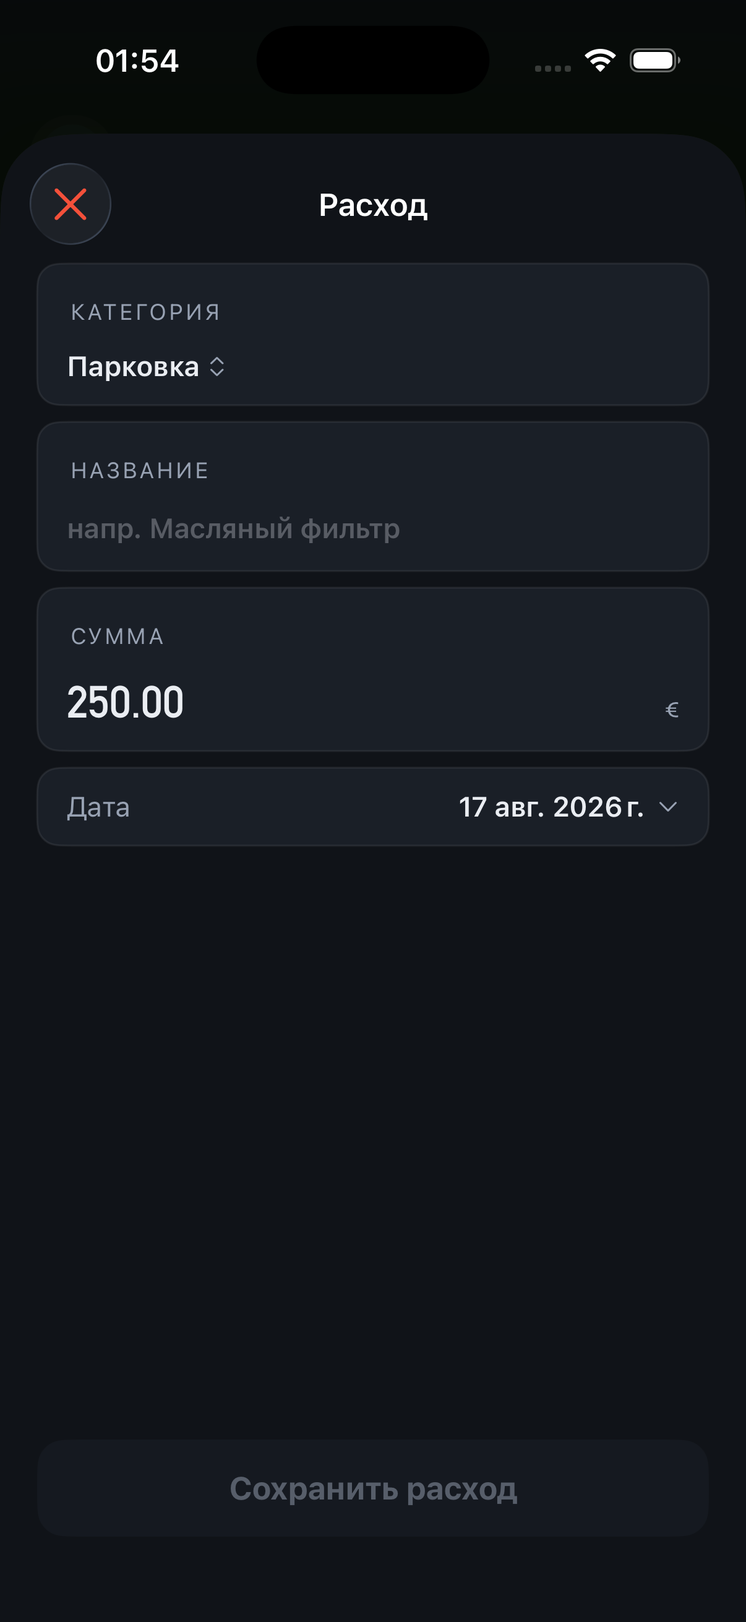
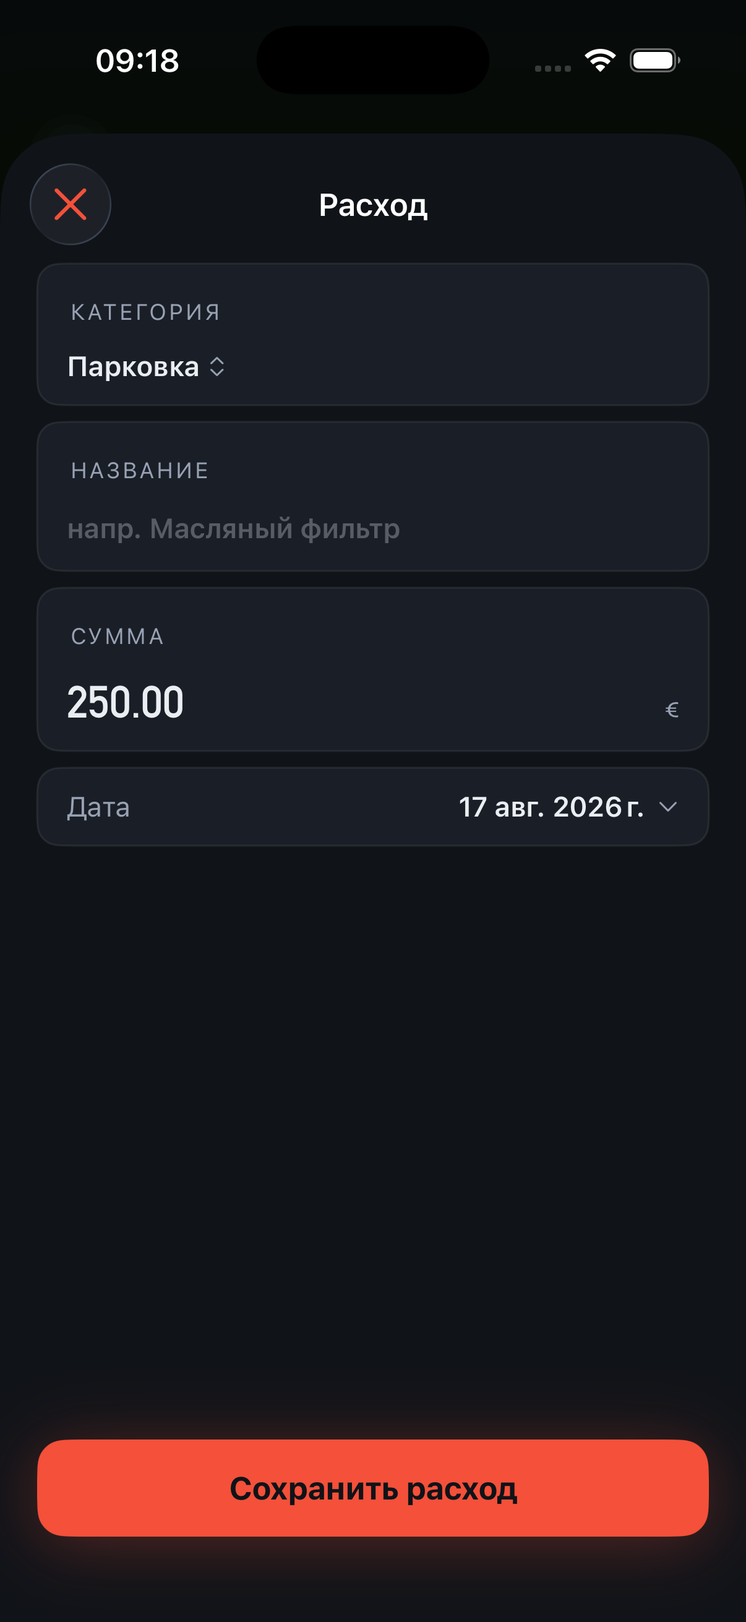
RV.206: a scan that read the category and the amount can be saved
canSave drops its hasTitle term. A category and an amount are enough,
because the Log row already names the expense from its category.

The gate was right when it was written and stale when it was found. The
archaeology gives one commit - 53d2623, P3.2, 2026-08-25 - at which
point Shared/EntryTitle.swift did not exist and nothing could name an
expense from its category. RV.187 added the fallback chain and RV.195
made the category visible and editable; the gate outlived its reason by
seventeen days and turned a complete scan into a demand to type
something redundant.

.other("") was settled rather than assumed: it renders the localized
"Other", a real category the user can edit afterwards, so "Other ·
12.40 €" is a named row. Asserted per category, not once. The amount
requirement stays - an expense with no amount is still refused.

The service gate is not the same code and not the same defect: it has no
amount requirement, so hasTitledItem is the only thing standing between
a blank ServiceRecord and the database. Filed as RV.214 rather than
changed, which is the right call - the fence moves by decision, not by
momentum.

Verified here, not from the report. Restoring hasTitle && fails two of
the five new tests and the restored gate returns 5/5; swift build 0,
swiftlint 0, swift test 0 at 1976 tests, ExpenseCaptureUITests 6/6.
Both locales opened: the RU form shows Парковка · 250.00 € with an empty
title and an enabled Сохранить расход - the defect and its fix in one
frame.
[…]

Changed region(s): [[0.0307, 0.865, 0.9511, 0.9577], [0.1534, 0.0309, 0.2454, 0.0618]]

diff --git a/ios/App/Tests/RV206ExpenseSaveGateTests.swift b/ios/App/Tests/RV206ExpenseSaveGateTests.swift
@@ -1,0 +1,147 @@
+import TankbookCore
+import XCTest
+@testable import Tankbook
+
+/// RV.206 - an expense with a category and an amount is saveable without a
+/// title. The gate predates the fallback chain: when it was written a title was
+/// the only thing naming an expense, so demanding one was right then. RV.187
+/// gave the Log row a category fallback and RV.195 made the category visible
+/// and editable, so the title became redundant typing - a complete scan landed
+/// on a disabled Save with no way forward but the keyboard.
+///
+/// The amount requirement is kept: an untitled row is named by its category
+/// (never a blank "- 12.40 €"), but an amount-less row is still refused. The
+/// `.other("")` decision is asserted directly - it renders the localized
+/// "Other", a real category label the user can edit afterwards (RV.195), so it
+/// names the row like every other category.
+///
+/// The persisted shape is driven through `ExpenseEntryView.storedExpense`, the
+/// same factory `save()` calls, so the round-trip proves what the real save
+/// writes rather than a copy of it.
+@MainActor
+final class RV206ExpenseSaveGateTests: XCTestCase {
+
+    override func setUpWithError() throws {
+        continueAfterFailure = false
+    }
+
+    private func makeVehicle() throws -> (TankbookRepository, Vehicle) {
+        let repository = try TankbookRepository(database: TankbookDatabase.inMemory())
+        let now = Date()
+        let vehicle = Vehicle(
+            id: UUID.v7(), createdAt: now, updatedAt: now, deletedAt: nil,
+            name: "Volvo V60", make: "Volvo", model: "V60", year: 2015,
+            plate: nil, powertrain: .ice, fuelKinds: [.petrol95],
+            tankCapacityL: 71, batteryCapacityKWh: nil, homeCurrency: .eur,
+            units: Vehicle.Units(distance: .km, volume: .l, consumption: .lPer100,
+                                 energy: .kWhPer100),
+            photo: nil, archived: false, paceLimitKmPerDay: 1500,
+            initialOdometer: 118_930)
+        try repository.upsertVehicle(vehicle)
+        return (repository, vehicle)
+    }
+
+    /// The premise of every test below: the form carries an amount and a
+    /// category but no title. The gate must let it through.
+    private func untitledForm(category: ExpenseCategory,
+                              amount: String) -> ExpenseEntryFormState {
+        var form = ExpenseEntryFormState()
+        form.category = category
+        form.amount = amount
+        return form
+    }
+
+    private func logRowTitle(_ entry: Expense, vehicle: Vehicle) -> String? {
+        let stream = LogStream(vehicle: vehicle, entries: [entry])
+        let logEntry = stream.sections
+            .flatMap(\.rows)
+            .compactMap { row -> LogStream.LogEntry? in
+                if case .entry(let value) = row { return value }
+                return nil
+            }
+            .first
+        return logEntry.map { EntryTitle.text($0, stations: []) }
+    }
+
+    // MARK: - The gate
+
+    /// L1, fails before this row: a category and an amount with no title is
+    /// saveable. Oracle: RV.187's chain - the Log row names it from the
+    /// category, so the title is redundant input.
+    func testAnExpenseWithACategoryAndAnAmountAndNoTitleIsSaveable() {
+        let form = untitledForm(category: .parts, amount: "12.40")
+        XCTAssertFalse(form.hasTitle, "the test's premise: no title was typed")
+        XCTAssertTrue(form.canSave,
+                      "a category names the row (RV.187), so a title is not required")
+    }
+
+    /// The gate still requires the amount. A title alone does not save, and
+    /// neither does an empty form - deleting the gate outright is the vacuous
+    /// trap this pins against.
+    func testAnExpenseWithNoAmountIsStillRefused() {
+        XCTAssertFalse(untitledForm(category: .parts, amount: "").canSave,
+                       "an amount-less expense must not save as a blank row")
+        var titled = untitledForm(category: .parts, amount: "")
+        titled.title = "Oil filter"
+        XCTAssertFalse(titled.canSave,
+                       "a title does not stand in for the amount the row needs")
+    }
+
+    /// `.other("")` is a real category, not an absence: it renders the
+    /// localized "Other" (RV.187, `expenseCategoryLabel`), so it names the row
+    /// exactly as every fixed category does. Every offered category is
+    /// asserted, so a later addition that cannot name a row fails here.
+    func testEveryOfferedCategoryNamesTheRowWithoutATitle() {
+        for category in ExpenseCategory.entryCases {
+            let form = untitledForm(category: category, amount: "12.40")
+            XCTAssertTrue(form.canSave,
+                          "\(category) must name the row without a title")
+            XCTAssertFalse(L10n.expenseCategoryLabel(category).isEmpty,
+                           "\(category) must render a non-empty label")
+        }
+    }
+
+    // MARK: - The save round-trips and the Log row reads the category
+
+    /// L1: it actually SAVES and the stored row round-trips. Oracle: the
+    /// reloaded `Expense` - empty title, the category, the amount - and the Log
+    /// row it produces reads the category (RV.187), so the user can find what
+    /// they saved. Never merely "the button is enabled".
+    func testTheUntitledExpenseSavesAndItsLogRowReadsTheCategory() throws {
+        let (repository, vehicle) = try makeVehicle()
+        let form = untitledForm(category: .parts, amount: "12.40")
+        let amount = try XCTUnwrap(form.amountDecimal)
+
+        let expense = ExpenseEntryView.storedExpense(
+            form: form, vehicle: vehicle, amount: amount,
+            attachments: [], provenance: .manual)
+        try repository.upsertExpense(expense)
+
+        let saved = try XCTUnwrap(repository.liveExpenses(forVehicle: vehicle.id).first)
+        XCTAssertEqual(saved.title, "", "the title is written as typed: blank")
+        XCTAssertEqual(saved.category, .parts)
+        XCTAssertEqual(saved.money?.amount, Decimal(string: "12.40"))
+        XCTAssertEqual(logRowTitle(saved, vehicle: vehicle), "Parts",
+                       "the Log row must name the untitled expense from its category")
+    }
+
+    /// L1, the `.other("")` decision asserted directly: an untitled expense in
+    /// the bare other category saves and its Log row reads "Other" - a real
+    /// label, not the bare type name and not a blank row.
+    func testABareOtherCategoryNamesTheSavedRowAsOther() throws {
+        let (repository, vehicle) = try makeVehicle()
+        let form = untitledForm(category: .other(""), amount: "12.40")
+        let amount = try XCTUnwrap(form.amountDecimal)
+
+        let expense = ExpenseEntryView.storedExpense(
+            form: form, vehicle: vehicle, amount: amount,
+            attachments: [], provenance: .manual)
+        try repository.upsertExpense(expense)
+
+        let saved = try XCTUnwrap(repository.liveExpenses(forVehicle: vehicle.id).first)
+        XCTAssertEqual(saved.title, "")
+        XCTAssertEqual(saved.category, .other(""))
+        XCTAssertEqual(logRowTitle(saved, vehicle: vehicle), "Other",
+                       "the bare .other(\"\") still names the row 'Other'")
+    }
+}

diff --git a/ios/App/Sources/ServiceEntry/ExpenseEntryView.swift b/ios/App/Sources/ServiceEntry/ExpenseEntryView.swift
@@ -39,8 +39,12 @@ struct ExpenseEntryFormState: Equatable {
         !title.trimmingCharacters(in: .whitespaces).isEmpty
     }
 
-    /// Save gate: a title and a non-blank amount. Category always has a value.
-    var canSave: Bool { hasTitle && amountDecimal != nil }
+    /// Save gate: a non-blank amount. The category always has a value, and the
+    /// Log row names the expense from it when the title is empty (RV.187), so a
+    /// title is never required to save. Even the bare `.other("")` renders the
+    /// localized "Other" - a real category label the user can edit afterwards
+    /// (RV.195), never an unnamed row.
+    var canSave: Bool { amountDecimal != nil }
 
     func hasEdits() -> Bool {
         if category != initialCategory { return true }
@@ -185,6 +189,25 @@ struct ExpenseEntryView: View {
         vehicle != nil && form.canSave
     }
 
+    /// The stored row `save()` writes, as a value. Extracted so the save gate
+    /// and the persisted shape are reachable from L1 without driving the view's
+    /// private `save()` (the RV.202 seam). The title is written exactly as
+    /// typed - empty when the user left it blank, because the category names
+    /// the row (RV.187) and the gate no longer demands one (RV.206).
+    static func storedExpense(form: ExpenseEntryFormState, vehicle: Vehicle,
+                              amount: Decimal, attachments: [AttachmentID],
+                              provenance: Provenance, id: UUID = UUID.v7(),
+                              now: Date = Date()) -> Expense {
+        Expense(
+            id: id, createdAt: now, updatedAt: now, deletedAt: nil,
+            vehicleId: vehicle.id, date: form.date, odometer: nil,
+            money: Money(amount: amount, currency: vehicle.homeCurrency,
+                         homeCurrency: vehicle.homeCurrency),
+            note: nil, attachments: attachments, provenance: provenance,
+            conflict: .none, purchaseGroupId: nil, category: form.category,
+            title: form.title, recurrence: nil, installedInServiceId: nil)
+    }
+
     private func save() {
         guard let vehicle, saveEnabled, let amount = form.amountDecimal else { return }
         do {
@@ -211,16 +234,10 @@ struct ExpenseEntryView: View {
             // A scan is never a `.manual` arrival once the photo path exists
             // (docs/SCHEMA.md: provenance is never `.manual` when a pre-fill
             // was applied); the typed door stays `.manual`.
-            var expense = Expense(
-                id: UUID.v7(), createdAt: now, updatedAt: now, deletedAt: nil,
-                vehicleId: vehicle.id, date: form.date, odometer: nil,
-                money: Money(amount: amount, currency: vehicle.homeCurrency,
-                             homeCurrency: vehicle.homeCurrency),
-                note: nil, attachments: attachmentIDs,
-                provenance: scan != nil ? .receiptScan : .manual,
-                conflict: .none,
-                purchaseGroupId: nil, category: form.category, title: form.title,
-                recurrence: nil, installedInServiceId: nil)
+            var expense = Self.storedExpense(
+                form: form, vehicle: vehicle, amount: amount,
+                attachments: attachmentIDs,
+                provenance: scan != nil ? .receiptScan : .manual, now: now)
             // PJ.11: F9a is checked on every write, not just capture. This
             // screen never collects an odometer, so the verdict is trivially
             // `.none` - but the stamp is the uniform shape of every write path

diff --git a/ios/App/UITests/ExpenseCaptureUITests.swift b/ios/App/UITests/ExpenseCaptureUITests.swift
@@ -35,7 +35,12 @@ final class ExpenseCaptureUITests: XCTestCase {
         XCTAssertTrue(FileManager.default.fileExists(atPath: fixture),
                       "the corpus fixture is missing: \(fixture)")
         let app = XCUIApplication()
+        // `-seedSettingsSignedIn` makes the Home the full layout that renders
+        // the Log. Without a session the Home is the guest layout, which has no
+        // Log at all - these tests assert a saved row, so they must run signed
+        // in rather than relying on a Keychain session another run left behind.
         app.launchArguments = ["-homeResetDatabase", "-seedHomeEmptyVehicle",
+                               "-seedSettingsSignedIn",
                                "-presentScreen", "capture", "-cameraStatus", "authorized",
                                "-captureMode", "expense", "-captureFixtureImage", fixture,
                                seed]
@@ -176,8 +181,8 @@ final class ExpenseCaptureUITests: XCTestCase {
         let app = captureExpense("-seedExpenseScan")
         shootAndUse(app)
 
-        // A scanned expense still needs its title - typing is never replaced,
-        // only reduced (hard rule 15, PJ.50's seam).
+        // A title is one peer path, not a requirement (RV.206): the scan is
+        // saved with a typed title here to prove the receipt rides the save.
         let title = app.textFields["expenseEntryTitleField"]
         XCTAssertTrue(title.waitForExistence(timeout: 15),
                       "an Expense-mode scan must land on the expense entry form")
@@ -206,5 +211,35 @@ final class ExpenseCaptureUITests: XCTestCase {
                       "tapping the receipt must open the attachment viewer")
         XCTAssertTrue(image.isHittable,
                       "the full-size photo must be visible, not merely present")
+    }
+
+    /// RV.206 - a scan that read the category and the amount must be saveable
+    /// WITHOUT typing. This drives the real capture -> save -> Log path and
+    /// asserts the entry is in the Log and its row is named from the category
+    /// (RV.187). Asserting the button is enabled alone would pass while the
+    /// save still demanded a title - the vacuous trap this row names.
+    func testAScanThatReadCategoryAndAmountSavesWithoutTypingAndAppearsInTheLog() {
+        let app = captureExpense("-seedExpenseScanParking")
+        shootAndUse(app)
+
+        let category = app.buttons["expenseEntryCategory"]
+        XCTAssertTrue(category.waitForExistence(timeout: 15),
+                      "an Expense-mode scan must land on the expense entry form")
+        XCTAssertTrue(categoryShows(app, "Parking"),
+                      "the parking scan must preselect Parking; control was '\(category.label)'")
+        XCTAssertFalse(isFieldBlank(app, "expenseEntryAmountField"),
+                       "the parking scan must pre-fill the amount it read")
+
+        // No title is typed: the category names the row, so Save is reachable.
+        let save = app.buttons["expenseEntrySaveButton"]
+        XCTAssertTrue(save.isEnabled,
+                      "a scan that read a category and an amount must be saveable")
+        save.tap()
+
+        let row = app.buttons["logEntryButton"].firstMatch
+        XCTAssertTrue(row.waitForExistence(timeout: 15),
+                      "the scanned expense must appear in the log without a title")
+        XCTAssertTrue(row.label.contains("Parking"),
+                      "the Log row must be named from the category (RV.187); was '\(row.label)'")
     }
 }

diff --git a/docs/TASKS.md b/docs/TASKS.md
@@ -59,12 +59,13 @@ dispatch ledger moved to `docs/TASKS-HISTORY.md`.*
 | PJ.22 | PRIORITY (product owner, 2026-08-31) | `[x]` | below · PJ · Journeys review (2026-08-29) |
 | RV.212 | (J7 "the invoice in your hand") The km-lifetime odometer rule is enforced on one door and not t | `[ ]` | below · PJ · Journeys review (2026-08-29) |
 | RV.213 | (J7 "the invoice in your hand") A per-item lifetime can only be stated AFTER the first save | `[ ]` | below · PJ · Journeys review (2026-08-29) |
+| RV.214 | (J7 "the invoice in your hand", J7b the shop receipt) The service create gate demands a titled | `[ ]` | below · PJ · Journeys review (2026-08-29) |
 | PJ.23 | PRIORITY (product owner, 2026-08-31) | `[x]` | below · PJ · Journeys review (2026-08-29) |
 | RV.204 | (J3 the fill-up receipt, J7 the service invoice) One screen, two contracts for the same failure | `[ ]` | below · PJ · Journeys review (2026-08-29) |
 | RV.202 | (J7 the invoice in your hand, J7b the shop receipt, J8b "look at the receipt again") A service | `[x]` | below · PJ · Journeys review (2026-08-29) |
 | RV.200 | (J7b "a shop receipt is an expense") An Expense scan never recognises WHICH KIND of expense it | `[x]` | below · PJ · Journeys review (2026-08-29) |
 | RV.205 | (J7b "a shop receipt is an expense") The receipts corpus cannot measure expense-kind recognitio | `[!]` | below · PJ · Journeys review (2026-08-29) |
-| RV.206 | (J7b the shop receipt) A scanned expense that read everything still cannot be saved | `[!]` | below · PJ · Journeys review (2026-08-29) |
+| RV.206 | (J7b the shop receipt) A scanned expense that read everything still cannot be saved | `[x]` | below · PJ · Journeys review (2026-08-29) |
 | RV.201 | (J3 "the receipt catches up with you" - and J7/J7b for service and expense) Late-arriving recog | `[!]` | below · PJ · Journeys review (2026-08-29) |
 | PJ.60 | (J7b purchase / J7d a reminder is born) Expense.recurrence is written nil and read nowhere | `[ ]` | below · PJ · Journeys review (2026-08-29) |
 | PJ.61 | (J7b the parts shelf) ServiceItem.partNumber is written nil and read nowhere | `[ ]` | below · PJ · Journeys review (2026-08-29) |
@@ -727,12 +728,13 @@ route through (Welcome, Reminders, the S5 notice, the post-sign-in push) exist o
 | **[x]** PJ.22 | **PRIORITY (product owner, 2026-08-31).** **[v1.x]** **gap** (J7 "app proposes the next reminder"; P3.4 never included it) **Lifetime editor** (km / months) on a service line item; on save create the proposal reminder anchored at the record's date/odometer, write `proposedReminderId` (always nil today, `ServiceEntryDraft.swift:122`), accept/decline line on the sheet; unlocks the km-lifetime odometer rule | L1: draft with lifetime -> one `Reminder` linked by `sourceEntryId`; decline writes none. L4 `ServiceEntryUITests`: proposal shown, accepted reminder appears in Reminders; EN+RU | **DONE 2026-09-11.** The lifetime editor ships on the service line item (km / months, either or both), and saving a record whose lifetime CHANGED raises the offer sheet. **The offer is anchored at the RECORD, never at today** - the sheet says so in words (*"Counted from this record, not from today - 123 600 km, Sep 8"*), which is what makes a back-dated or imported service correct rather than merely plausible. The interval is editable **at the offer and afterwards** and the sheet says that too (*"A suggested interval, not a fact: change it here or later"*) - hard rule 13 stated in the copy, not just in the code. Declining writes no reminder at all. **`proposedReminderId` is DROPPED**, per [PJ.62]'s decision: the Swift type, the migration column and the schema line are gone, `sourceEntryId` is the single link, and `ReminderOfferLifetimeTests.proposedReminderIdIsGoneEverywhere` now fails if the name returns anywhere in the tree. **The guard loop closes a fourth time**: [RV.196]'s `ServiceItem.lifetime.km`/`.months` exceptions are deleted and `SchemaFieldWriterGuardTests` asserts they stay deleted. **Mutation (orchestrator-run)**: anchoring at `now` instead of `proposal.date` turns `itemLifetimeProposalIsAnchoredAtTheRecord` red (`2028-09-11` where `2028-03-10` was promised); restored byte-identical, 8/8 green. **Gates in the orchestrator's own hands**: `swift build` 0, `swiftlint` 0 (622 warnings, 0 serious), `swift test` 0 with **1976 tests in 239 suites, zero failures**. Screenshots EN+RU opened: the editor fits RU without truncation (`СРОК СЛУЖБЫ`, `км`, `мес`, `или`), and the sheet's tick uses `Theme.Palette.ok`, a token, not an ad-hoc hex. `JOURNEYS.md` J7/J7d, `SCHEMA.md` and `LOGGING.md` amended in the same change. **Two findings reported and deliberately not built** - filed as [RV.212] and [RV.213]. |
 | **[ ]** RV.212 | (J7 "the invoice in your hand") **The km-lifetime odometer rule is enforced on one door and not the other.** A km-only lifetime needs the record to carry an odometer, or the reminder it proposes has neither due field. That rule lives on the CREATE path (`ServiceEntryView`); `EditEntryView.saveEnabled` returns `true` for every non-fill entry, so the same lifetime can be stated on an edit of a record with no odometer. **Nothing is silently minted** - `ReminderOffer.acceptance` returns `noDueField` for a km-only proposal with no odometer, so the offer simply does not appear - but the two doors disagree about what is a valid entry, and the edit door gives no reason why nothing happened (hard rule 7). Found by [PJ.22]'s agent, which reported it rather than widening its own scope | Decide which door is right and make both say it. **The likely answer is that neither should refuse the save**: a km lifetime with no odometer is a fact the user knows and the app cannot use YET, so the honest behaviour is to save it and say the reminder needs an odometer - not to block the save. **Hard rule 15's shape**: the two doors are peers, so a rule on one is a rule on both | L1: the same (lifetime, odometer) pair is accepted or refused identically by both paths - asserted from both, so they cannot drift. L1: whatever the refusal is, it NAMES its next step. **Vacuous trap**: copying the gate into the edit screen without deciding whether the gate is right, which doubles a rule nobody has justified | **This is the sibling-defect shape** (`docs/DEFECT-PATTERNS.md`), caught before it shipped rather than after |
 | **[ ]** RV.213 | (J7 "the invoice in your hand") **A per-item lifetime can only be stated AFTER the first save.** [PJ.22] put the lifetime editor on the Edit-entry line item; `ServiceEntryItemCard` on the CREATE screen has none. So the user types the service, saves it, reopens it, and only then can say "every 15 000 km" - and the offer sheet they would have seen at save time appears on the second visit instead. The brief scoped the editor to [PJ.23]'s row and the agent did not widen it, which was right; this row is the widening | Put the same lifetime fields on the create card, calling the SAME editor view ([PJ.22] extracted `ServiceItemLifetimeFields.swift` for exactly this) - not a second one. Then the offer fires at first save, which is when the user is still thinking about the interval | L1: a service created WITH a lifetime raises the offer at its first save. L1: the two screens render the same editor - one view, asserted from both. L4 EN+RU. **Vacuous traps**: a second lifetime editor; firing the offer on every service save rather than when a lifetime is stated ([PJ.22] gates on `serviceLifetimeChanged` deliberately, and that decision must survive) | After [PJ.22]. **Hard rule 15 again**: type-it and scan-it are peers, and so are create and edit |
+| **[ ]** RV.214 | (J7 "the invoice in your hand", J7b the shop receipt) **The service create gate demands a titled line item, and the Log row can name the service without one.** Found by the [RV.206] agent while relaxing the expense gate one entry kind over: `ServiceEntryView.saveEnabled` requires `form.hasTitledItem` (`ServiceEntryView.swift:210`, hint at `:478`), but `EntryTitle`'s service chain ([RV.187]) falls back from the vendor to the first named item to that item's category - so a service with a readable vendor, or an item whose category names it, is already nameable while Save stays disabled. The scanned path can reach it: `InvoiceSplitter`'s lump-sum fallback titles its single item `vendor ?? ""`, so an invoice whose vendor did not read leaves an untitled item and blocks the save. **It is NOT the expense defect**: an expense still requires an amount, so dropping its title check cannot produce a blank row, while the service form has no amount requirement - `hasTitledItem` is the only thing between the app and a wholly empty `ServiceRecord`. So this is a decision, not a deletion | Decide what makes a service non-empty: a vendor, a category-bearing item or a cost is content, a wholly blank record stays refused. Then make `hasTitledItem` and `serviceEntrySaveHint` express that rule, and make the hint name whatever is still missing (hard rule 7) | L1: a service with a vendor and no titled item is saveable and its Log row reads the vendor. L1: one with only a named item category is saveable and reads the category. L1: a wholly blank service is still refused. L4 EN+RU. **Vacuous trap**: deleting `hasTitledItem` outright, which lets a blank service save - [RV.206]'s own warning one entry kind over | Filed, not fixed: same shape as [RV.206] but a different gate on a different type, and the right rule is a product decision |
 | **[x]** PJ.23 | **PRIORITY (product owner, 2026-08-31).** **[v1.x]** **gap** (J7 "`.other` promoted later without data loss") **Edit entry edits service line items** (title / category / cost) and Expense category | L1: `.other("x")` -> `.oil` keeps title, cost, attachments, links. L4 `EditEntryUITests`; EN+RU | **The Expense-category half SHIPPED 2026-09-10 as [RV.195]** (`24f4acc`) - filed from the product owner's report without anyone noticing this row had been open since 2026-08-31. **The SERVICE half is what remains** and is briefed (`agents/briefs/PJ.23.md`): a service opens to a Vendor field and nothing else, so its line items - the actual work, its category, its cost - are invisible and uneditable, while [RV.187] now TITLES the Log row from the first named item. The row's own acceptance sentence is the hard part: `.other("x")` -> `.oil` must keep title, cost, attachments and links, so the test asserts every `ServiceItem` field and not the two that changed. **DONE 2026-09-10, EDIT-ONLY - and the product owner asked for add/delete the same evening, filed as [RV.198].** A service's line items are now editable on Edit entry: title, category and cost per item, loaded through `pristineNonFillForm` (the single source the RV.31 discard baseline compares against, so a changed item reads as an unsaved edit) and written by the non-fill save. The row's own acceptance is met: `.other("масло")` -> `.oil` keeps title, cost pair, `partNumber`, `lifetime`, and the record keeps its attachments and `usedParts` - the L1 asserts **every** `ServiceItem` field, not the two that changed. **Mutation (orchestrator-run)**: replacing the items assignment with `service.items = originalItems` - today's behaviour before this row - turns two red, one naming the discarded title and one the discarded promotion; restored byte-identical. Screenshots EN+RU opened; RU does not truncate, and the runtime `Bremsbeläge VA` free-text on an `.other` item fits beside its cost. **Found and NOT fixed, reported by the agent**: the service's `money` is not re-derived from item costs, so editing an item leaves the header total stale - [RV.199].
 | **[ ]** RV.204 | (J3 the fill-up receipt, J7 the service invoice) **One screen, two contracts for the same failure.** Found by the [RV.202] agent and reported rather than papered over: when a photo write fails, the **fill-up** edit path BLOCKS and warns in place (`attachFailedWarn`, the entry unchanged - [PJ.48]'s contract), while the **non-fill** path RV.202 just added DEGRADES and toasts (the entry saves without the photo, [RV.149]'s contract). **Both report, so neither is silent** - the hard-rule-8 floor holds either way - but they are the same screen, the same gesture and the same failure, behaving differently depending on which kind of entry the user opened | **Decide which contract is right and make both obey it.** The arguments are real on both sides: blocking keeps the entry and its receipt atomic, degrading keeps a save the user asked for from being lost to a storage failure. `docs/ERRORS.md` -> Edit entry now documents BOTH rows, which is the tell that this is undecided rather than designed | L1 from both entry kinds asserting the SAME outcome - whichever is chosen - so the pair cannot drift again. L4 in both, EN+RU. **Vacuous trap**: documenting the difference as intentional without a reason a user would recognise | Neither contract is wrong today; the inconsistency is |
 | **[x]** RV.202 | (J7 the invoice in your hand, J7b the shop receipt, J8b "look at the receipt again") **A service or an expense with no attachment cannot be given one.** Product owner, 2026-09-10: *"entries service / expenses must allow to attach, view, replace the attachments to it. The same flow as for fill ups."* **Pinned, and the gap is narrower than it sounds**: `EditEntryNonFillView.swift:36-39` renders the shared `EditEntryRows.receiptCard` **only `if !attachments.isEmpty`**, and never passes `onAddReceipt`. So VIEW works and REPLACE/DELETE work - they live in `AttachmentViewerView` ([RV.37]) behind that same shared card - but a service or expense that arrived without a photo has **no card and no "Add receipt" button at all**. The fill-up screen has the three-way branch this one lacks (`EditEntryView.swift:448-466`): existing attachments -> card; a pending image -> `pendingReceiptCard`; none -> the card **with** `onAddReceipt` and the source chooser. **The affordance is missing, not the machinery** - `receiptCard` already takes `onAddReceipt` as a parameter | Give the non-fill screen the same three-way branch, calling the SAME `receiptCard` and the same `.receiptAttachSource` chooser. **Reuse `attachReceipt`'s path rather than a second one**: it persists the photo, reports a failed write ([RV.149]) and is where the blank-fields-only merge hangs. **The `onAttachmentChanged: (FuelExtraction?)` callback is fuel-typed** and is the thing that will fight you - a service invoice's recognition is not a `FuelExtraction`, which is the same shape [RV.201] is filed against; decide whether to widen it here or pass nil and let RV.201 widen it, and say which | L1: attaching to a service persists the photo and the entry keeps it after a reload. L1: a failed photo write is REPORTED, not swallowed ([RV.149]'s rule, one entry kind over - the fill-up path already has this test and the non-fill path has none). L4 `EditEntryUITests` EN+RU: a service with no attachment offers "Add receipt", takes one, and the viewer opens it. **Vacuous traps**: asserting the button exists rather than that the attachment persisted; a second attach path beside `attachReceipt`; shipping attach without the failure report, which is exactly the half `RV.149` had to be filed for | **`PJ.28` is the precedent and the warning**: it removed this silent loss for the EXPENSE SCAN path and its fence stopped there, which is how `RV.149` was born on the fill-up path. This row is that fence moving one more step | **DONE 2026-09-11.** The non-fill edit screen has the fill-up's three-way branch: existing attachments -> the card, a pending image -> the pending card, none -> the card **with** *Add receipt* and the same `.receiptAttachSource` chooser, hung off the CARD not the screen ([RV.11]'s fence). One attach path, `attachReceipt`'s, not a second. **The failure report ships with it** - the half `RV.149` had to be filed for after `PJ.28`'s fence stopped one entry kind short - and fires **after** the entry is on disk, so a failed save can never claim success. **The agent chose on the fuel-shaped seam and said so**: `onAttachmentChanged`'s `(FuelExtraction?)` stays as it is and a non-fill attach passes nil, leaving the widening to [RV.201], which is the row that owns it. **Mutation (orchestrator-run)**: passing `onAddReceipt: nil` again - today's state before this row - turns `testTheNonFillReceiptCardWiresTheAddAffordance...` red, and the L4 red with *"a service with no receipt must offer 'Add receipt'"*; restored byte-identical. **`ChargeSession` gets the affordance too** - the branch is generic - though only Service and Expense were tested. Screenshots EN+RU, opened; the `PJ.23`/`RV.198` service poses were re-shot because the same screen now carries the card, and aliased so one picture serves both names. `JOURNEYS.md` J7 and J8b, and `ERRORS.md`, amended in the same change.
 | **[x]** RV.200 | (J7b "a shop receipt is an expense") **An Expense scan never recognises WHICH KIND of expense it is.** Product owner, 2026-09-10, asking whether the capture chips work with recognition: they do - `acceptExpenseScan` runs the **same `CapturePipeline`** as a fuel receipt and `ExpensePrefillBuilder` carries total, currency and date into `ExpenseEntry` (fuel-only fields are deliberately dropped) - **but the CATEGORY is never inferred.** `ExpenseEntrySession.pendingPreset` exists and its own doc says *"`pendingPrefill` only by Capture; `pendingPreset` only by ServiceEntry"*, so a scanned expense always opens at the `.accessory` default. A parking receipt, a toll and an insurance invoice are indistinguishable to the form that receives them, and [RV.195] just made that category a field the user must now set by hand on every scan | Infer the category from what the scan read and offer it as a **suggestion** (hard rule 13) - the vocabulary work is the row: a parking receipt, a car wash, a toll and a fine are separable by keyword in both locales, an insurance invoice by its own words. **Reuse `pendingPreset`** rather than adding a second channel; its doc comment is the thing to update. **An unrecognised kind opens at the default and says nothing** - never a wrong guess presented as a fact | L1: a fixture parking receipt yields `.parking`, a wash yields `.other("wash")`, an unreadable one yields nil and the form opens at its default. **The ORACLE is the fixture filenames**, written from the images before any extractor existed - never the extractor's own output ([RV.161]'s tautology). L4 `CaptureUITests`: an Expense-mode scan opens the expense form with the inferred category preselected and editable | The corpus has receipts of these kinds already; measuring first is the row's cheapest half | **DONE 2026-09-11.** An Expense-mode scan now infers the CATEGORY from what it read and offers it **pre-selected and editable** (hard rule 13), through the existing `pendingPreset` channel - whose doc comment, which asserted the invariant this row changes, was updated with it. **A no-match abstains**: nil, the form opens at its default, and nothing is said (hard rule 7). The vocabulary is **bilingual** and lives with the other extraction vocabularies; `expense.category.suggest` records the category CODE and whether the user changed it - shape only, never the receipt's text (hard rule 12), the same `userCorrected` signal `capture.pipeline` already keeps for fuel. **Mutation (orchestrator-run)**: making `infer` always return nil turns the parking and the Russian L1s red; restored byte-identical. Screenshots EN+RU opened - the RU scan lands on **КАТЕГОРИЯ · Парковка** with its chevron. **The finding that matters most is what could NOT be measured**: the receipts corpus holds **16 images and zero non-fuel ones**, so the vocabulary is verified against hand-written text fixtures rather than photographs. The agent said so plainly rather than tuning to two images - see [RV.205].
 | **[!]** RV.205 | (J7b "a shop receipt is an expense") **The receipts corpus cannot measure expense-kind recognition: it holds 16 images and ZERO non-fuel ones.** Found by the [RV.200] agent and confirmed by the orchestrator (`ls Spike/ReceiptSpike/fixtures/receipts/` - no parking, toll, wash, insurance or fine image). RV.200's vocabulary is therefore verified against **hand-written text fixtures**, which prove the matcher works and prove nothing about what a photographed parking ticket actually OCRs to. **The agent refused to tune a keyword list to two images and said so**, which is the correct outcome and leaves the row here | **Photographs, from the product owner** - a handful each of parking, toll, car wash, insurance and a fine, in RU and EN, added to `fixtures/receipts/` under the naming convention that makes the FILENAME the oracle ([RV.161]'s rule: ground truth written from the image before any extractor sees it). Then score the vocabulary against them and record the mark | The corpus scorer reports a real number for the expense-kind class, and `RV.200`'s vocabulary is tuned against photographs rather than typed text. **Vacuous trap**: scoring against the extractor's own output, which is exactly how `RV.161` produced a fake 46/46 | **Not agent work** - it needs someone with the receipts and a camera. `RV.114` is its sibling for pump photos |
-| **[!]** RV.206 | (J7b the shop receipt) **A scanned expense that read everything still cannot be saved.** Visible in [RV.200]'s own screenshot the moment it landed: the scan resolves category, amount and date, and **Save stays disabled** because `ExpenseEntryFormState.canSave` is `hasTitle && amountDecimal != nil` (`ExpenseEntryView.swift:43`). The user must type a title the app no longer needs - [RV.187] already titles the Log row from the CATEGORY when the title is empty, and [RV.195] made that category visible and editable on the edit screen. **So the gate demands a field whose absence the app has an answer for**, and it turns a complete scan into a dead end (hard rule 7: the next step exists, but it is typing something redundant) | Drop `hasTitle` from the gate when a category is set, or drop it entirely and let `RV.187`'s chain name the row. **Check the create path's own reason first** - the gate predates both RV.187 and RV.195, and the title may have been the only thing naming an expense when it was written | L1: an expense with a category and an amount and NO title is saveable, and its Log row reads the category. L1: one with neither a title nor a category is still refused - the gate exists for a reason and must not simply be deleted. L4 `ExpenseCaptureUITests`: a scan that reads category and amount can be saved without typing. **Vacuous trap**: asserting the button is enabled rather than that the entry SAVED and the Log row names it | Found by opening `RV.200`'s screenshot, which is the check no test performs |
+| **[x]** RV.206 | (J7b the shop receipt) **A scanned expense that read everything still cannot be saved.** Visible in [RV.200]'s own screenshot the moment it landed: the scan resolves category, amount and date, and **Save stays disabled** because `ExpenseEntryFormState.canSave` is `hasTitle && amountDecimal != nil` (`ExpenseEntryView.swift:43`). The user must type a title the app no longer needs - [RV.187] already titles the Log row from the CATEGORY when the title is empty, and [RV.195] made that category visible and editable on the edit screen. **So the gate demands a field whose absence the app has an answer for**, and it turns a complete scan into a dead end (hard rule 7: the next step exists, but it is typing something redundant) | Drop `hasTitle` from the gate when a category is set, or drop it entirely and let `RV.187`'s chain name the row. **Check the create path's own reason first** - the gate predates both RV.187 and RV.195, and the title may have been the only thing naming an expense when it was written | L1: an expense with a category and an amount and NO title is saveable, and its Log row reads the category. L1: one with neither a title nor a category is still refused - the gate exists for a reason and must not simply be deleted. L4 `ExpenseCaptureUITests`: a scan that reads category and amount can be saved without typing. **Vacuous trap**: asserting the button is enabled rather than that the entry SAVED and the Log row names it | Found by opening `RV.200`'s screenshot, which is the check no test performs | **DONE 2026-09-11.** `canSave` is `amountDecimal != nil`: a category and an amount are enough, because the Log row already names the expense from the category. **The gate was right when it was written and stale when it was found** - the agent did the archaeology the brief demanded and came back with one commit, `53d2623` *P3.2: expenses, parts shelf, install linking* (2026-08-25), at which point `Shared/EntryTitle.swift` **did not exist** and nothing could name an expense from its category. [RV.187] added the fallback chain and [RV.195] made the category visible and editable; the gate outlived its reason by seventeen days. **`.other("")` was settled directly rather than assumed**: it renders the localized *"Other"*, a first-class category the user can edit afterwards, so *"Other · 12.40 €"* is a named row, not a blank one - asserted per category, not once. The amount requirement stays; an expense with no amount is still refused. **Mutation (orchestrator-run)**: restoring `hasTitle &&` fails two of the five - *"a category names the row (RV.187), so a title is not required"* and *"insurance must name the row without a title"* - and the restored gate returns 5/5. **Gates in the orchestrator's own hands**: `swift build` 0, `swiftlint` 0, `swift test` 0 with **1976 tests in 239 suites**, `TankbookTests/RV206ExpenseSaveGateTests` **5/5**, `TankbookUITests/ExpenseCaptureUITests` **6/6**. Screenshots EN+RU re-shot and opened: the RU form shows *Парковка · 250.00 € · 17 авг. 2026 г.* with an **empty title** and a bright, enabled *Сохранить расход* - the defect and its fix in one frame. **The service gate is NOT the same code and not the same defect** - it has no amount requirement, so `hasTitledItem` is the only thing standing between a blank `ServiceRecord` and the database. The agent said so and filed [RV.214] instead of changing it, which is the right call: the fence moves by decision, not by momentum. **Found on the way**: `ExpenseCaptureUITests` was passing on a Keychain session left behind by an earlier run - alone on a fresh simulator the Home is the guest layout, which renders no Log at all. Seeding `-seedSettingsSignedIn` makes it deterministic; the guest layout's missing Log is [RV.197], already filed by the cold-launch walk. |
 | **[!]** RV.201 | (J3 "the receipt catches up with you" - and J7/J7b for service and expense) **Late-arriving recognition reaches a FILL-UP and nothing else.** Product owner, 2026-09-10: *"there should be async recognition of the captured documents, receipts and a suggestion (as with FillUps) to update entries if recognized data arrived later and they are different. The flow must be the same."* **The flow exists and is fuel-shaped.** The Inbox renders `.differs` / `.fillsBlank` per field with its own tick identifiers - `inboxTick_date`, `_fuelKind`, `_volume`, `_unitPrice`, `_total`, `_currency` (`InboxView.swift:193-205`) - so *"a recognition arrived, here is what it changes, you decide"* is **built, shipped and reachable**. Every one of those fields is a fill-up field. **Nothing routes a service or expense recognition into it**, and the service and expense capture paths recognise **synchronously or not at all**: `acceptExpenseScan` awaits its pipeline inline, and `ServiceInvoiceScanner.process` awaits OCR plus `InvoiceSplitter` before the form opens | **Generalise the Inbox's merge over entry KIND rather than building a second one.** The per-field ticks become the entry's own fields - a service's line items and vendor, an expense's total and category ([RV.200]) - and the blank-fields-only rule stays what it already is (`ReceiptAttachMerge`, [PJ.48]): only a blank field is filled silently, a DIFFERING value is offered and never applied (hard rule 13). Then make the recognition deferrable for those kinds, so a slow or cloud-assisted read lands in the Inbox instead of blocking the sheet. **The delivery outbox already exists for exactly this** - `docs/API.md`, the RV.53 amendment: *"a result the gateway computed but could not hand back is queued for the device that asked for it"* | L1: a late recognition whose values DIFFER produces an Inbox item, not a write. L1: one that only fills blanks applies under the existing rule. L1: the merge is ONE function over any entry kind - asserted from a fill-up, a service and an expense, so the three cannot drift. L4 `InboxUITests`: a service recognition arriving after the save is offered per field and is declinable. **Vacuous traps**: a second merge implementation beside `ReceiptAttachMerge` ([RV.169]'s complaint); applying a differing value because it "looks better"; an Inbox item with no way to decline | **Large, and the sequence matters**: [RV.200] decides what an expense recognition even produces, so it lands first. `PJ.29` (invoice pages through `/extract`) is the cloud half and is a separate row |
 | **[ ]** PJ.60 | (J7b purchase / J7d a reminder is born) **`Expense.recurrence` is written `nil` and read nowhere.** Found by `REVIEW-SERVICE`'s J7/J7b/J7d/J7c walk, 2026-09-10. `SCHEMA.md:237` promises a recurring expense - *"yearly insurance"* - and the REMINDER half of that is already met by the shipped `ReminderOffer`; the **next-entry** half is unbuilt, so the column, the `RecurrenceRule` type and the `Codable` conformance exist with zero function. `RV.196`'s field guard does not report it because `Expense` shares a `###` heading with `ServiceRecord` (see `PJ.63`) | **Decide drop-or-write and record it in `docs/SCHEMA.md`.** The honest answers are *delete the field, its type and its migration column*, or *give it a writer AND a reader for the next-entry half*. **A silent dead column is not one of them** | L1: `recurrence` is gone from type, migration, schema and decoder - or a production writer and reader exist. A grep must show no `recurrence:` assigned only `nil` | Nothing user-visible today: the insurance reminder works through a different path |
 | **[ ]** PJ.61 | (J7b the parts shelf) **`ServiceItem.partNumber` is written `nil` and read nowhere.** Found by `REVIEW-SERVICE`, 2026-09-10: `nil` at `ServiceEntryDraft.swift:12` and `ImportConversion.swift:147`, read nowhere, and **not editable even after [PJ.23]** shipped the item editor. `SCHEMA.md:228` promises it | **The v2 parts shelf ([PJ.52]) is its natural owner, so the honest v1 answer is a WRITTEN REASON, not a phantom writer.** Record it as a reasoned `RV.196` exception naming PJ.52 - or give it a writer in the item editor if the product wants it in v1 | L1: a reasoned exception names the v2 owner, or a writer lands. A grep must show no non-nil `partNumber` construction | `PJ.23` deliberately PRESERVES it on save, so the field survives an edit; it just cannot be set |

diff --git a/docs/JOURNEYS.md b/docs/JOURNEYS.md
@@ -317,7 +317,10 @@ presented as one. A scan that reads nothing opens the EMPTY expense form with no
 rule 7), the same contract the fill-up path honours. The amount is offered only when the
 receipt's currency is nil or is the car's home currency – the expense form cannot express a
 foreign total, so one is never offered as if it were home money (hard rule 13: a wrong fact is
-worse than none).
+worse than none). The form saves on the **amount alone** (RV.206): the category always has a
+value, and the Log row is named from it when the title is empty (RV.187), so a scan that read the
+kind and the total is a complete entry. A title stays available and is still a peer way to name
+the row - it is simply never demanded (hard rule 15).
 
 **Success metric:** shelf-suggested parts accepted ≥40%; tire-swap reminders acted on ≥70% in season.
 
